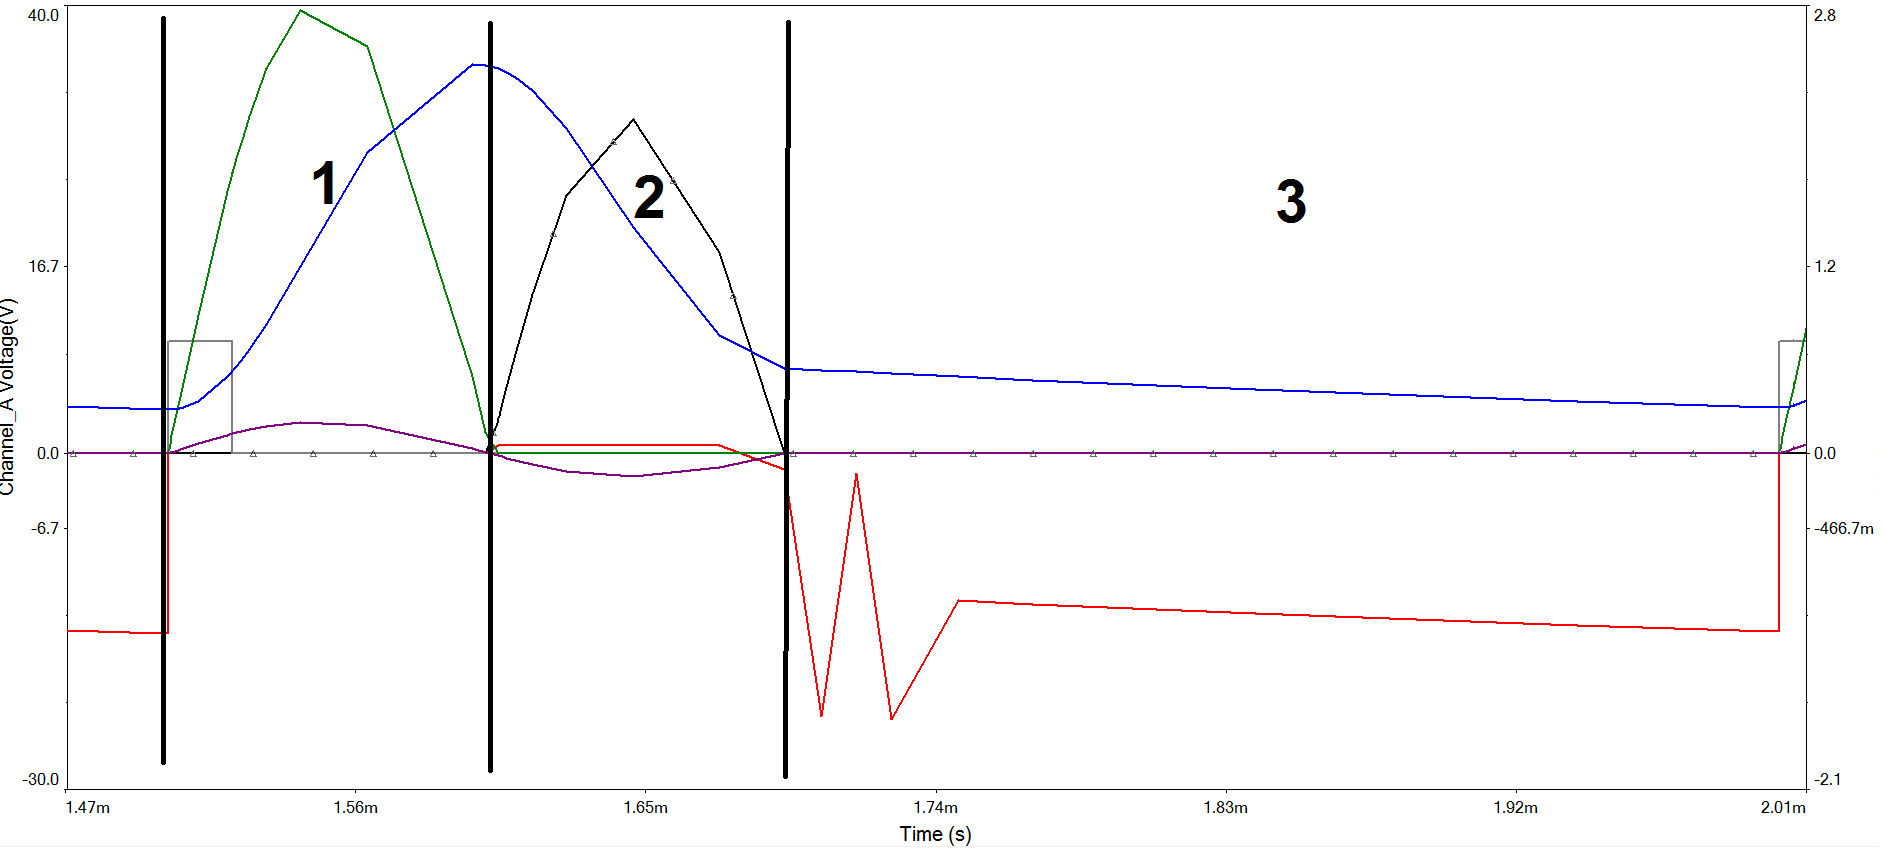
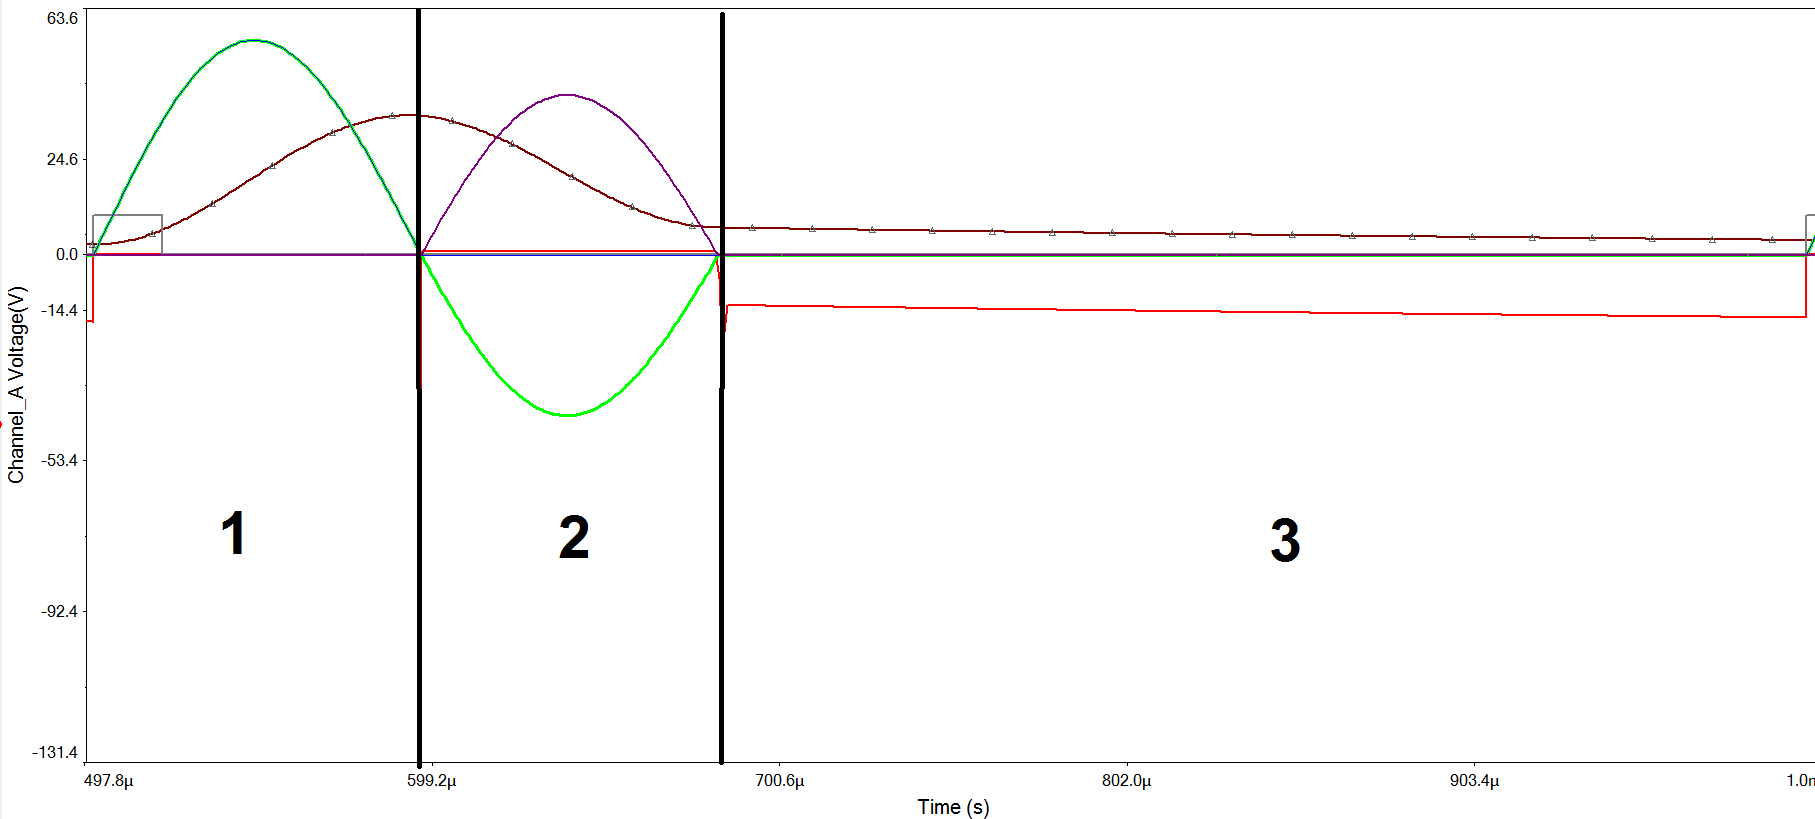
DD

diff --git a/lab1/epot_lab1.tex b/lab1/epot_lab1.tex
@@ -370,40 +370,79 @@ Também se observa que o díodo rápido tem um tempo de condução inferior, pel
 Por fim tem-se no caso do díodo lento um atraso no tempo de passagem à condução maior, pelo que o período em que se pode observar a arcada negativa da corrente será também maior.
 
 \subsubsection{Funcionamento do circuito}
-O funcionamento deste circuito dividi-se em três zonas, como se pode verificar na fugira seguinte:
+O funcionamento deste circuito divide-se em três zonas:
 
 \begin{figure}[h]
 	\centering
 	\includegraphics[keepaspectratio=true, scale=0.4]{img/funcionamento_tir}
-	\caption{Resultado da simulação do circuito.}
-	\label{fig:figura 1}
+	\caption{Resultado das simulações.}
+	\label{fig:figura 0}
 	\vspace{-0.8em}
 \end{figure}
 
 \subsubsection*{Zona 1}
 	Zona onde o tirístor está a conduzir e o díodo ao corte.
-	Analisando a simulação verifica-se que quando ocorre o impulso na \textit{gate}, sinal a cinza, a corrente no tirístor tem um comportamento imposto pela bobine, cresce até atingir o seu valor máximo e em seguida decresce até se anular, sinal a roxo. Este comportamento também influência a carga no condensador, como a corrente é no sentido da carga, este carrega até que a corrente se anula, sinal azul. Neste ponto o tirístor entra em corte.
+	
+	\begin{figure}[h]
+		\centering
+		\includegraphics[keepaspectratio=true, scale=0.4]{img/Zona1}
+		\caption{Sinal de impluso(cinza), corrente no tirístor(azul), corrente na bobine (verde)e a tensão no condensador(castanho).}
+		\label{fig:figura 1}
+		\vspace{-0.8em}
+	\end{figure}
+	
+	
+	Analisando a simulação verifica-se que quando ocorre o impulso na \textit{gate}, sinal a cinza, a corrente no tirístor tem um comportamento imposto pela bobine, cresce até atingir o seu valor máximo e em seguida decresce até se anular, sinal a verde e sinal a azul. Este comportamento também influência a carga no condensador, como a corrente é no sentido da carga, este carrega até que a corrente se anula, sinal a castanho. Neste ponto o díodo entra em condução.
+	
+	\pagebreak
 	   
 \subsubsection*{Zona 2}
 	Zona onde o díodo está a conduzir e o tirístor ao corte. 
-	Com a bobine carregada é necessário a sua desmagnetização, para isso coloca-se um díodo anti-paralelo com o tirístor para criar o circuito de desmagnetização. 
-	Observando a simulação verifica-se que a corrente na bobine é idêntica à situação anterior mas no sentido inverso, ou seja, a desmagnetização da bobine. Com corrente a ter este comportamento é de esperar a descarga do condensador até que a corrente se anula. Neste ponto o díodo entre em corte.
+	
+	\begin{figure}[h]
+		\centering
+		\includegraphics[keepaspectratio=true, scale=0.4]{img/Zona2}
+		\caption{Corrente no díodo(roxo), corrente na bobine (verde), tensão no condensador(castanho) e a tensão no tirístor (vermelho).}
+		\label{fig:figura 2}
+		\vspace{-0.8em}
+	\end{figure}
+	
+	Como já  foi referenciado o tirístor tem um comportamento muito lento no corte. Como o objetivo é abrir o circuito exatamente no ponto em que a corrente no tirístor passa por zero, o tirístor não consegue ter esse comportamento, foi colocado um díodo anti-paralelo de forma a aproximar o corte do zero.    
+	
+	Com o díodo anti-paralelo a corrente têm o sentido contrário à situação anterior. Com corrente a ter este comportamento é de esperar a descarga do condensador até que a corrente se anula, sinal a castanho Neste ponto o díodo entre em corte.
+
 	
 \subsubsection*{Zona 3}
 	Zona onde o díodo e o tirístor estão ao corte.
+	
+	\begin{figure}[h]
+		\centering
+		\includegraphics[keepaspectratio=true, scale=0.4]{img/Zona3}
+		\caption{Tensão no tirístor(vermelho) e a tensão do condensador(castanho).}
+		\label{fig:figura 3}
+		\vspace{-0.8em}
+	\end{figure}
+	
 	A corrente na bobine é nula até que haja outro impulso de \textit{gate} de forma a ativar o tirístor. A tensão no condensador decresce até atingir o seu valor mínimo (período de descarga do condensador por entrega de energia à carga).
 	
 	Os valores máximos de corrente e tensão são determinados pelos parâmetros do circuito de disparo (período do impulso de \textit{gate}) e do circuito de potência (valores da resistência, condensador e bobine).
 	A potência entregue à carga é controla através da frequência  do impulso de \textit{gate} (frequência de disparo do tirístor).
 
 
-
-
-N
-
 \subsubsection{Circuito de potência sem díodo em antiparalelo}
+Na \autoref{fig:imagem5} pode ver-se a tensão e corrente no tirístor.
 
-N
+\begin{figure}[h]
+	\centering
+	\includegraphics[keepaspectratio=true, scale=0.165]{img/imagem5}
+	\caption{Tensão (a amarelo) e corrente (a rosa) no tiristor.}
+	\label{fig:imagem5}
+	\vspace{-0.8em}
+\end{figure}
+ 
+Analisando a figura pode-se dividir o comportamento da tensão em três fases. A primeira fase é definida pela condução do tirístor, a tensão V\textsubscript{KA} é constante e igual à tensão de polarização direta do tirístor, como se pode visualizar no sinal a amarelo. 
+A segunda fase representa o momento de corte do tirístor, a falta do díodo em antiparalelo representa a inexistência do circuito desmagnetização como já foi anteriormente referido a existência da bobine no circuito obriga a que o exista um circuito de desmagnetização. 
+O sinal a amarelo representa a tensão entre o catado e o anodo, V\textsubscript{KA}
 
 \subsubsection{Circuito de potência sem a resistência de carga}
 
